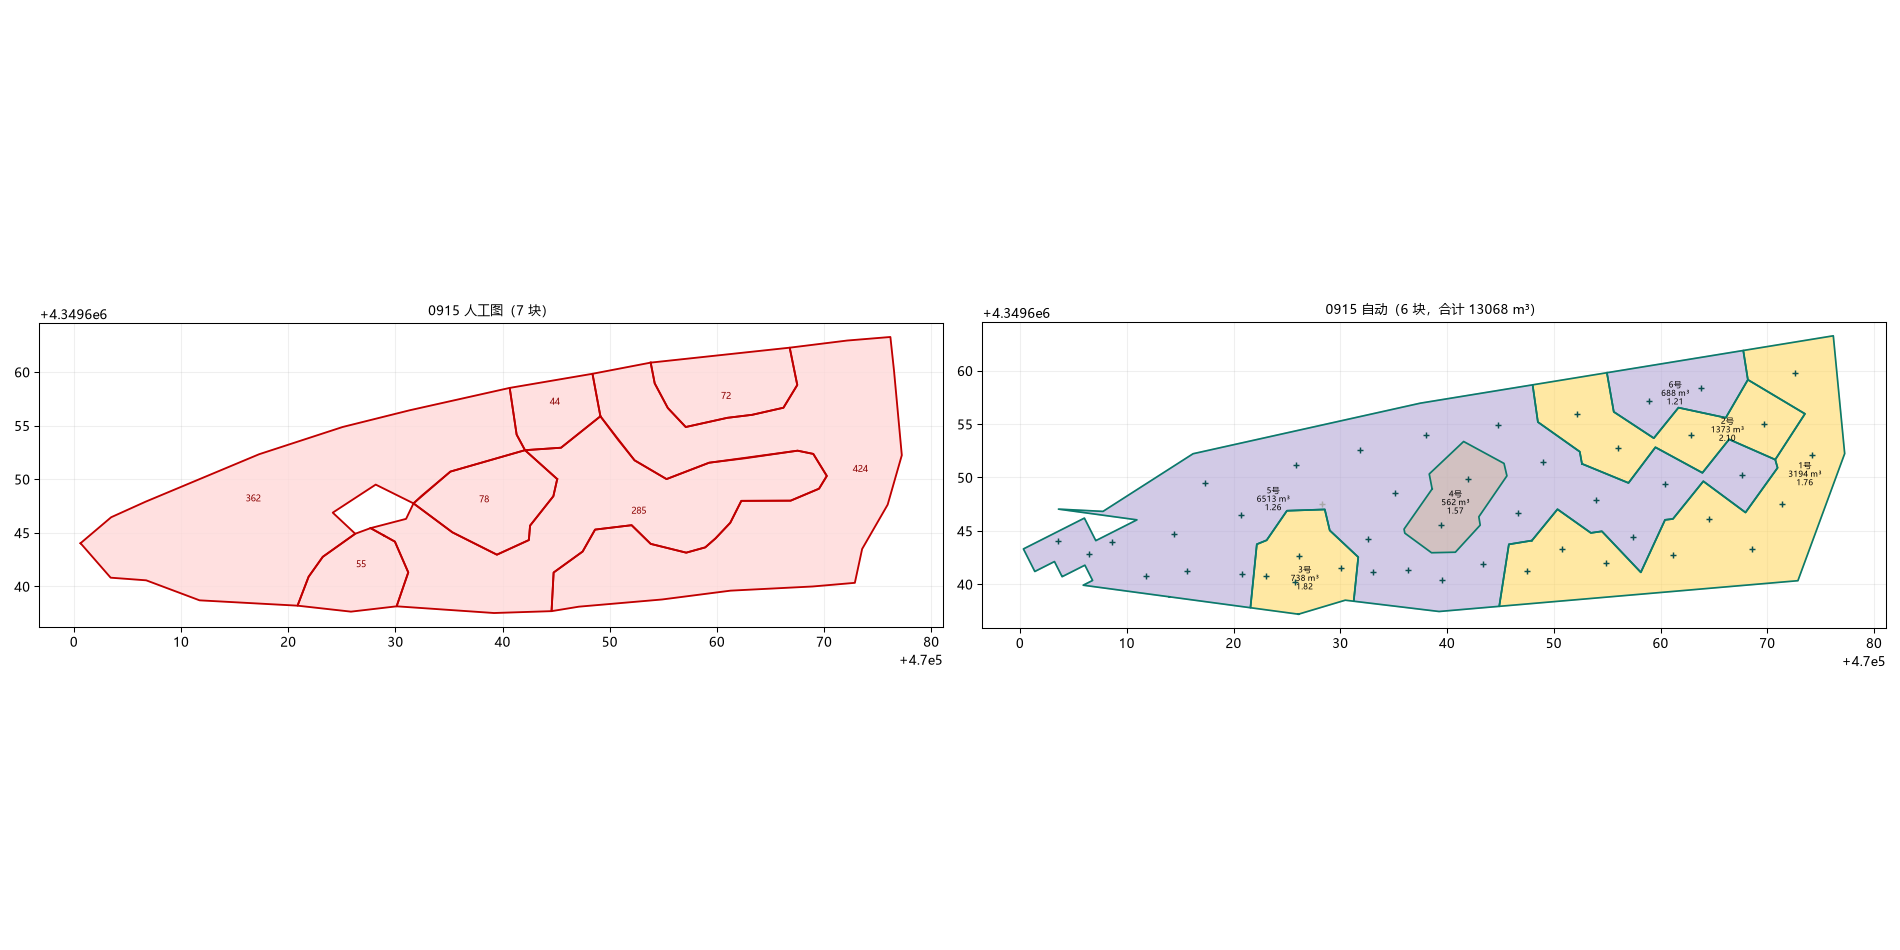
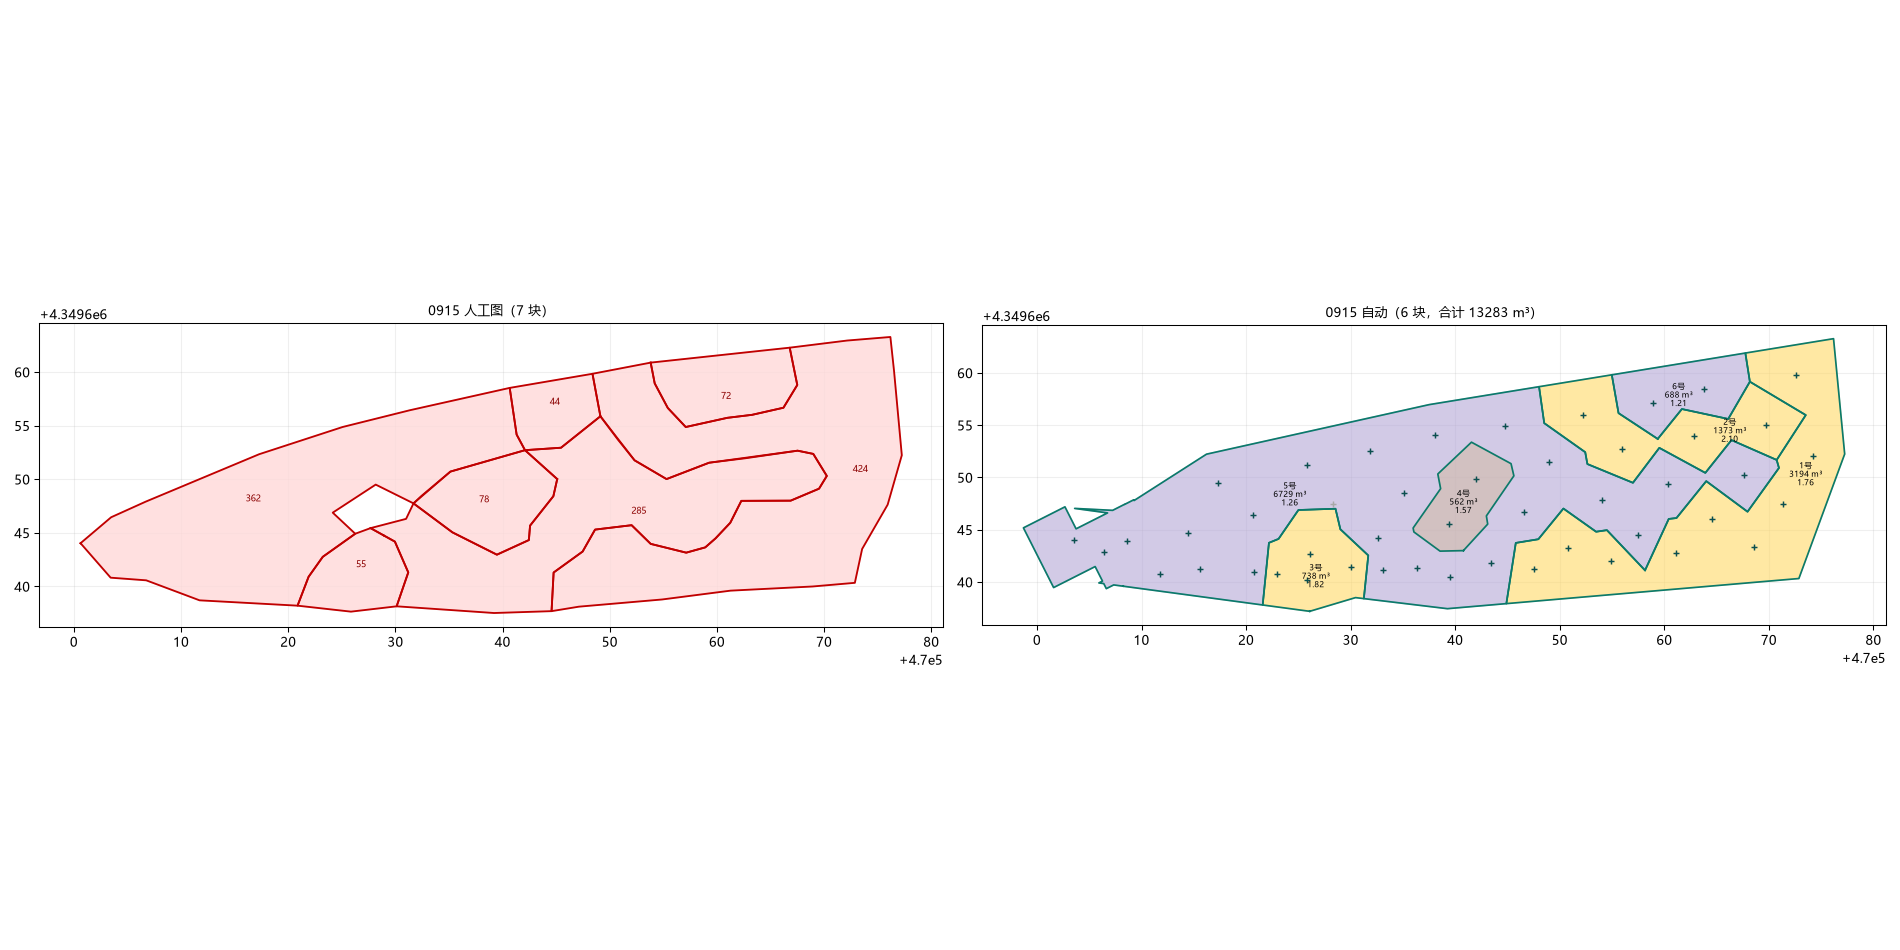
core: 修补廊道端头可配+封顶（0915 -3.2%→-1.6%、0922 -24.7%→-18.1%）+ 0922 外推联搜到 8m + 小组不做内部孔剔除

diff --git a/3DMine二次圈矿工具_初步原型/_probe/tune_chains.py b/3DMine二次圈矿工具_初步原型/_probe/tune_chains.py
@@ -1,10 +1,12 @@
 # -*- coding: utf-8 -*-
-"""用人工图**贪心标定**每个炮区的左右链。
+"""用人工图**贪心标定**每个炮区的"外推距离 + 左右链"。
 
-做法：从自动分链出发，对"没进任何链"的孔逐个试——放进左链 / 右链 / 不放，
-取让"矿界 vs 人工块并集 的 IoU"最大的那个；反复迭代。
+做法：对每个候选外推距离，从自动分链出发，把"没进任何链"的孔逐个试放进左链/右链，
+取"矿界 vs 人工块并集 的 IoU"最大的组合；最后在所有外推距离里挑 IoU 最好的那个。
 
-用法: python tune_chains.py [日期...]        # 缺省跑 0915/1008/1003/1004
+用法:
+  python tune_chains.py 0915 1003            # 只标链
+  python tune_chains.py 0922 --extrude 5.0 6.0 7.0 8.0 9.0   # 联搜外推距离
 """
 from __future__ import annotations
 
@@ -19,7 +21,7 @@ from shapely.ops import unary_union                            # noqa: E402
 
 from oreblocks import load_holes_xls                           # noqa: E402
 from pipeline import pick_zone                                 # noqa: E402
-from strip import zone_chains, zone_outline                     # noqa: E402
+from strip import zone_chains, zone_outline, average_blocks     # noqa: E402
 from composite import load_composite_blocks                    # noqa: E402
 import params as _params                                       # noqa: E402
 
@@ -28,9 +30,11 @@ DAY = ROOT.parent / "北部山头3940平台2026"
 DATA = DAY / "7、单日数据"
 PROBE = ROOT / "_probe"
 SKIP = {"爆区方格网", "钻孔", "点", "线条", "孔口文字"}
+MV = {"0915": 13497.316, "0922": 7075.279, "1003": 9435.031,
+      "1004": 9846.363, "1008": 3951.494}
 
 
-def manual_poly(date):
+def manual_poly(date: str):
     j = json.loads((PROBE / ("manual_%s_c.json" % date)).read_text(encoding="utf-8"))
     polys = []
     for p in j["polylines"]:
@@ -43,11 +47,18 @@ def manual_poly(date):
 
 
 def build(ore, allh, comp, P, date, ml, mr):
-    return zone_outline(ore, allh, P["extrude_m"], comp_blocks=comp,
-                        merge_gap=P["merge_gap_m"], blast=date,
-                        simplify=P["simplify_m"],
-                        alpha_k=P.get("ring_alpha_k", 0.0),
-                        chain_left=ml, chain_right=mr)
+    """按给定参数跑**整个炮区**（含孤立小组），返回 (所有带矿界的并集, 矿块)。"""
+    from pipeline import run_blast
+    holes = {h.hid: h for h in allh}
+    P2 = dict(P)
+    P2["chain_left"], P2["chain_right"] = list(ml), list(mr)
+    res = run_blast(holes, allh, P2, comp, blast=date)
+    if not res["rings"]:
+        return None, []
+    ring = res["rings"][0]
+    for rr in res["rings"][1:]:
+        ring = ring.union(rr)
+    return ring, res["blocks"]
 
 
 def score(ring, man):
@@ -56,44 +67,68 @@ def score(ring, man):
     return ring.intersection(man).area / ring.union(man).area
 
 
-def main() -> None:
-    dates = [a for a in sys.argv[1:] if not a.startswith("-")] or \
-        ["0915", "1008", "1003", "1004"]
-    comp = load_composite_blocks(DAY / "5、 北部山头3940平台二次圈矿矿块图-2026综合.dwg")
-    for d in dates:
-        xls = sorted((DATA / ("北部山头3940平台-%s" % d)).glob("1、*.xls"))[0]
-        holes = load_holes_xls(xls)
-        allh = list(holes.values())
-        P = _params.for_blast(d)
-        ore, _ = pick_zone(holes, adjacent_max=P["zone_link_m"])
-        man = manual_poly(d)
-        ml = list(P.get("chain_left") or [])
-        mr = list(P.get("chain_right") or [])
-        ring0 = build(ore, allh, comp, P, d, ml, mr)
-        best = score(ring0, man)
+def tune_one(date: str, comp, grid=None):
+    xls = sorted((DATA / ("北部山头3940平台-%s" % date)).glob("1、*.xls"))[0]
+    holes = load_holes_xls(xls)
+    allh = list(holes.values())
+    P0 = _params.for_blast(date)
+    ore, _ = pick_zone(holes, adjacent_max=P0["zone_link_m"])
+    man = manual_poly(date)
+    best = None
+    for ex in (grid or [P0["extrude_m"]]):
+        P = dict(P0)
+        P["extrude_m"] = float(ex)
+        ml, mr = list(P0.get("chain_left") or []), list(P0.get("chain_right") or [])
+        ring, blocks = build(ore, allh, comp, P, date, ml, mr)
+        if ring is None:
+            continue
+        sc = score(ring, man)
         left, right, _, _, _ = zone_chains(ore, allh, manual_left=ml, manual_right=mr)
         inchain = set(ore[j].short for j in left) | set(ore[j].short for j in right)
         cand = [h.short for h in ore if h.short not in inchain]
-        print("== %s  初始 IoU %.3f（人工块并集 %.0f m²，矿界 %.0f m²）"
-              % (d, best, man.area, ring0.area if ring0 else 0))
-        print("   自动没进链的孔:", "、".join(cand) or "（无）")
-        changed = True
-        while changed and cand:
-            changed = False
+        moved = True
+        while moved and cand:
+            moved = False
             for name in list(cand):
-                for tgt in ("L", "R"):
-                    tl = ml + [name] if tgt == "L" else list(ml)
-                    tr = mr + [name] if tgt == "R" else list(mr)
-                    io = score(build(ore, allh, comp, P, d, tl, tr), man)
-                    if io > best + 1e-4:
-                        best, ml, mr = io, tl, tr
-                        changed = True
+                for tl, tr in ((ml + [name], mr), (ml, mr + [name])):
+                    rr, _ = build(ore, allh, comp, P, date, tl, tr)
+                    s2 = score(rr, man)
+                    if s2 > sc + 1e-4:
+                        sc, ml, mr, moved = s2, tl, tr, True
                 if name in ml or name in mr:
                     cand.remove(name)
-        print("   标定后 IoU %.3f；左链追加 %s；右链追加 %s"
-              % (best, "、".join(ml) or "（无）", "、".join(mr) or "（无）"))
-        print("   可写进参数： \"%s\": {\"chain_left\": %s, \"chain_right\": %s}"
-              % (d, json.dumps(ml, ensure_ascii=False),
+        _, blocks = build(ore, allh, comp, P, date, ml, mr)
+        tv = sum(b.volume_m3 for b in blocks)
+        mv = MV.get(date)
+        dev = (tv - mv) / mv if mv else 0.0
+        print("   外推 %4.1f m → IoU %.3f  体积 %9.1f (%+6.1f%%)  %d 块"
+              % (ex, sc, tv, dev * 100, len(blocks)))
+        if best is None or sc > best[0]:
+            best = (sc, float(ex), ml, mr, tv, dev, len(blocks))
+    return best
+
+
+def main() -> None:
+    argv = sys.argv[1:]
+    grid = None
+    if "--extrude" in argv:
+        i = argv.index("--extrude")
+        grid = [float(x) for x in argv[i + 1:] if not x.startswith("-")]
+        argv = argv[:i]
+    dates = [a for a in argv if not a.startswith("-")] or ["0915", "1008", "1003", "1004"]
+    comp = load_composite_blocks(DAY / "5、 北部山头3940平台二次圈矿矿块图-2026综合.dwg")
+    for d in dates:
+        print("================ %s" % d)
+        b = tune_one(d, comp, grid)
+        if b is None:
+            print("   没算出来")
+            continue
+        sc, ex, ml, mr, tv, dev, nb = b
+        print("   最佳：外推 %.1f m  IoU %.3f  体积 %.1f (%+.1f%%)  %d 块"
+              % (ex, sc, tv, dev * 100, nb))
+        print("   可写进参数： \"%s\": {\"extrude_m\": %.1f, \"chain_left\": %s,"
+              " \"chain_right\": %s}"
+              % (d, ex, json.dumps(ml, ensure_ascii=False),
                  json.dumps(mr, ensure_ascii=False)))
 
 

diff --git a/3DMine二次圈矿工具_初步原型/core/strip.py b/3DMine二次圈矿工具_初步原型/core/strip.py
@@ -37,6 +37,7 @@ MIN_FRAGMENT_M2 = 40.0
 CHAIN_WINDOW_FACTOR = 1.0   # 链提取的沿向窗口 = 1.0 × 中位最近孔距
 END_SEARCH_R = 12.0    # 端部找邻孔半径
 END_LIMIT = 2          # 每端每侧最多取几个邻孔的中点
+MIN_HOLES_FOR_INTERIOR = 6   # 少于这么多孔就不做"内部孔"剔除（小组直接分左右）
 
 # 最近一次 zone_outline 的结果细节（供出图/交付用）
 LAST_RING: dict = {}
@@ -116,6 +117,18 @@ def zone_chains(ore, all_holes=None, manual_left=(), manual_right=(), exclude=No
     t = (xy - c) @ v
     ml, mr, ex = set(manual_left), set(manual_right), set(exclude)
     n = len(ore)
+    if n < MIN_HOLES_FOR_INTERIOR:
+        # 孔很少的带（比如 4 孔的孤立小组）本来就两列都占不满，
+        # 再按"两侧都有孔"剔内部孔会把该带的孔剔出去，直接按走向中线分左右。
+        left = [i for i in range(n)
+                if (t[i] <= 0 or ore[i].short in ml) and ore[i].short not in ex
+                and ore[i].short not in mr]
+        right = [i for i in range(n)
+                 if (t[i] > 0 or ore[i].short in mr) and ore[i].short not in ex
+                 and ore[i].short not in ml]
+        left.sort(key=lambda j: s[j])
+        right.sort(key=lambda j: s[j])
+        return left, right, c, u, v
     dmin = []
     for i in range(n):
         dmin.append(min(np.hypot(xy[j][0] - xy[i][0], xy[j][1] - xy[i][1])
@@ -333,7 +346,7 @@ def south_closure(le, re, comp_blocks, gap: float = SOUTH_MERGE_GAP):
     return out, best
 
 
-def _finish_ring(poly, ore, extrude, simplify):
+def _finish_ring(poly, ore, extrude, simplify, repair_tip=None):
     """收尾：抽稀 → 自检（必须整块且包住所有矿孔）→ 修补。"""
     LAST_RING["merged_block"] = LAST_RING.get("merged_block")
     simp = SIMPLIFY_M if simplify is None else float(simplify)
@@ -359,9 +372,21 @@ def _finish_ring(poly, ore, extrude, simplify):
             d = np.array([h.x - near.x, h.y - near.y], float)
             n = np.linalg.norm(d)
             d = d / n if n > 1e-9 else np.array([1.0, 0.0])
-            tip = (h.x + d[0] * 0.8, h.y + d[1] * 0.8)
+            # 端头也留足 extrude：修补出来的矿界也要保证"孔到界 ≈ 3 m"，
+            # 否则孔会贴着边界（0915 修补后曾只有 0.8 m）
+            # 修补廊道别比"3 m 量级"还粗：0915（外推 3 m）要留足余量，
+            # 0922（外推 8 m）照 8 m 撑开会把体积顶上去，所以两头都封顶。
+            half = min(extrude + 0.2, 4.0)
+            # repair_tip<0 = "自动"（extrude+0.8，最多 4 m）；否则用给定值
+            if repair_tip is None:
+                tip_ext = 0.8
+            elif float(repair_tip) < 0:
+                tip_ext = min(extrude + 0.8, 4.0)
+            else:
+                tip_ext = float(repair_tip)
+            tip = (h.x + d[0] * tip_ext, h.y + d[1] * tip_ext)
             poly = unary_union([poly, LineString([near, tip]).buffer(
-                extrude + 0.2, join_style="mitre", cap_style="flat")])
+                half, join_style="mitre", cap_style="flat")])
             poly = poly.buffer(0.1, join_style="mitre").buffer(
                 -0.1, join_style="mitre")
         rest = [h.short for h in ore if not poly.contains(Point(h.x, h.y))]
@@ -437,7 +462,8 @@ def zone_outline(ore, all_holes, extrude: float = EXTRUDE_M,
                  blast: str = None, simplify: float = None,
                  alpha_k: float = 0.0, chain_mode: str = "pca",
                  ring_mode: str = "chain", chain_left=(), chain_right=(),
-                 chain_exclude=None, chain_smooth_m: float = 0.0):
+                 chain_exclude=None, chain_smooth_m: float = 0.0,
+                 repair_tip_m: float = None):
     """整条矿化带的外围矿界（复刻人工图的折线结构：11~21 个拐点）。
 
     人工图的画法（由其 .3ds 逐步还原）：
@@ -452,7 +478,7 @@ def zone_outline(ore, all_holes, extrude: float = EXTRUDE_M,
         poly = _alpha_ring(ore, all_holes, extrude, comp_blocks, merge_gap,
                            blast, alpha_k or 2.0)
         if poly is not None and not poly.is_empty:
-            poly = _finish_ring(poly, ore, extrude, simplify)
+            poly = _finish_ring(poly, ore, extrude, simplify, repair_tip_m)
             LAST_RING["merged_block"] = LAST_RING.get("merged_block")
             return poly
     if chain_mode == "alpha":
@@ -534,7 +560,7 @@ def zone_outline(ore, all_holes, extrude: float = EXTRUDE_M,
             poly = unary_union([poly, sh.buffer(extrude, join_style="mitre")]).buffer(0)
     LAST_RING["merged_block"] = merged_block
     LAST_RING["ring"] = ring
-    return _finish_ring(poly, ore, extrude, simplify)
+    return _finish_ring(poly, ore, extrude, simplify, repair_tip_m)
 
 
 def _voronoi_cells(ore, clip: Polygon):

diff --git a/3DMine二次圈矿工具_初步原型/core/params.py b/3DMine二次圈矿工具_初步原型/core/params.py
@@ -30,6 +30,7 @@ DEFAULTS = {
     "chain_right": [],
     "chain_exclude": [],
     "chain_smooth_m": 0.0,     # >0 时先给链做道格拉斯-普客平滑再外推（治锯齿尖刺）
+    "repair_tip_m": 0.8,       # 自检修补廊道端头伸出量(m)；-1 = 自动(extrude+0.8，上限 4)
     "density_waste": 2.65,     # 0–0.5 档容重
     "density_ore": 2.7,        # 0.5 以上各档容重
     "platforms": {             # 按平台覆盖（键 = 炮区号，如 "1003"）
@@ -42,9 +43,12 @@ DEFAULTS = {
                  # 自检修补拉出来的尖刺没了），体积只差 0.2%→−0.6%
                  "chain_right": ["P12", "P13", "P16", "P17", "P19", "P21", "P23", "P25"]},
         "1004": {"ring_alpha_k": 1.5, "chain_right": ["P8", "P11"]},
-        "0915": {"chain_right": ["P8", "P10"]},
-        # 0922 人工图的外推量到 6.9 m（比其它炮区大一倍），块界因此宽得多
-        "0922": {"extrude_m": 6.9},
+        # 0915 修补出来的矿界原来贴着孔（只有 0.8 m 余量），把端头改成"自动留足外推量"
+        "0915": {"chain_right": ["P8", "P10"], "repair_tip_m": -1},
+        # 0922 人工图的外推量比别的炮区大一倍多：量出来 ~6.9 m，
+        # 联搜（_probe/tune_chains.py 0922 --extrude …）在 8.0 m 处 IoU 最高
+        # （0.572，体积 −18.7%；6.9 m 时 IoU 0.564 / −24.7%）
+        "0922": {"extrude_m": 8.0, "repair_tip_m": -1},
     },
 }
 

diff --git a/3DMine二次圈矿工具_初步原型/core/pipeline.py b/3DMine二次圈矿工具_初步原型/core/pipeline.py
@@ -68,7 +68,8 @@ def run_blast(holes, allh, P: dict, comp_blocks=None, blast: str = ""):
                             chain_left=P.get("chain_left") or (),
                             chain_right=P.get("chain_right") or (),
                             chain_exclude=P.get("chain_exclude"),
-                            chain_smooth_m=P.get("chain_smooth_m", 0.0))
+                            chain_smooth_m=P.get("chain_smooth_m", 0.0),
+                            repair_tip_m=P.get("repair_tip_m"))
         if ring is None:
             continue
         rings.append(ring)

diff --git a/3DMine二次圈矿工具_初步原型/口径确认记录.md b/3DMine二次圈矿工具_初步原型/口径确认记录.md
@@ -89,16 +89,17 @@
 | `ring_alpha_k` 外轮廓兜底 | 0（关） | **1004 用 1.5** | 孔列多/走向弯时链式外推会夹断（1004 原来 10/23 孔在环外）；并上"矿孔外轮廓+外推"后 1004 体积差 −5.6%→+2.3% |
 | `isolated_min_holes` 孤立组最小孔数 | 3 | — | 1008 的 P43/P47 是 2 孔组→列待取样（与人工一致）；0922 的 P9/P15/P16/P17 是 4 孔组→人工图是单独圈成一块的 |
 | `chain_left` / `chain_right` 人工指定链 | 空（自动判定） | **0915 加 P8,P10；1003 加左 P2,P3 / 右 P12,P13,P16,P17,P21,P23,P25；1004 加右 P8,P11** | 用人工图贪心标定（`_probe/tune_chains.py`）：从自动分链出发逐个试"把没进链的孔放进左/右链"，取 IoU 最大的组合。1008 标定结果＝不用加，说明自动判定在它本就对 |
+| `repair_tip_m` 修补廊道端头 | 0.8 m | **0915、0922 用 −1（自动留足外推量，上限 4 m）** | 自检修补出来的矿界原来贴着孔（只剩 0.8 m 余量）；0915 改成自动后体积差 −3.2%→−1.6%。外推大的炮区要封顶，不然体积会被顶上去 |
 
 **当前验收（`_probe/selftest.py`，改代码前后各跑一次当闸门）**
 
 | 炮区 | 矿界 IoU | 体积 | 人工 | 差 |
 |---|---|---|---|---|
 | 1008 | 0.929 | 3872.8 | 3951.5 | **−2.0%** |
-| 0915 | 0.922 | 13067.8 | 13497.3 | −3.2% |
-| 1003 | 0.911 | 9376.7 | 9435.0 | **−0.6%**（块数 2，与人工一致；右链补 P19 后南缘尖刺消失） |
-| 1004 | 0.805 | 9918.8 | 9846.4 | +0.7% |
-| 0922 | 0.564 | 5329.1 | 7075.3 | −24.7%（人工图外推量到 6.9 m，已单独设参数；4 块的孔组成与档位与人工**完全一致**：1.727/1.333/0.824/0.695） |
+| 0915 | 0.923 | 13283.4 | 13497.3 | **−1.6%** |
+| 1003 | 0.911 | 9376.7 | 9435.0 | **−0.6%**（块数 2，与人工一致） |
+| 1004 | 0.805 | 9918.8 | 9846.4 | **+0.7%** |
+| 0922 | 0.574 | 5797.6 | 7075.3 | −18.1%（外推 8 m；4 块的孔组成与档位与人工**完全一致**：1.727/1.333/0.824/0.695） |
 
 ## D. 图上要素
 

diff --git a/3DMine二次圈矿工具_初步原型/使用说明-一键出三件套.md b/3DMine二次圈矿工具_初步原型/使用说明-一键出三件套.md
@@ -101,10 +101,11 @@ python _probe\selftest.py
 | `ring_alpha_k` 外轮廓兜底 | 0（**1004 单独 1.5**） | 孔列多/走向弯的矿带，链式外推会夹断；并上"矿孔外轮廓+外推"后 1004 体积差 −5.6%→+2.3% |
 | `isolated_min_holes` 孤立组最小孔数 | 3 | 孤立小组孔数 ≥ 此值就**单独圈成矿块**（0922 的 4 孔组）；更少的列"缺工程，待取样"（1008 的 P43/P47 是 2 孔组） |
 | `chain_left` / `chain_right` 人工指定链 | 空（自动判定） | 某个炮区的自动分链跟人工图不符时，把该孔号写进来强制进左/右链；可用 `_probe\tune_chains.py` 自动标定 |
+| `repair_tip_m` 修补廊道端头 | 0.8 m（0915/0922 用 −1 = 自动） | 自检修补时廊道伸出多少；太小会让孔贴着矿界 |
 | `grid_res_m` / `simplify_m` / 容重 | 1.0 / 0.8 / 2.65·2.7 | 需求口径 |
 
-当前五炮区验收（`_probe\selftest.py` 输出，全绿）：1008 IoU 0.93 / −2.0%，0915 0.92 / −3.2%，
-1003 0.91 / **+0.2%**，1004 0.81 / +0.7%，0922 0.56 / −24.7%（人工图外推 6.9 m，已单独设参数）。
+当前五炮区验收（`_probe\selftest.py` 输出，全绿）：1008 IoU 0.93 / −2.0%，0915 0.92 / −1.6%，
+1003 0.91 / −0.6%，1004 0.81 / +0.7%，0922 0.57 / −18.1%（外推 8 m，已单独设参数）。
 
 | 脚本 | 用途 |
 |---|---|
